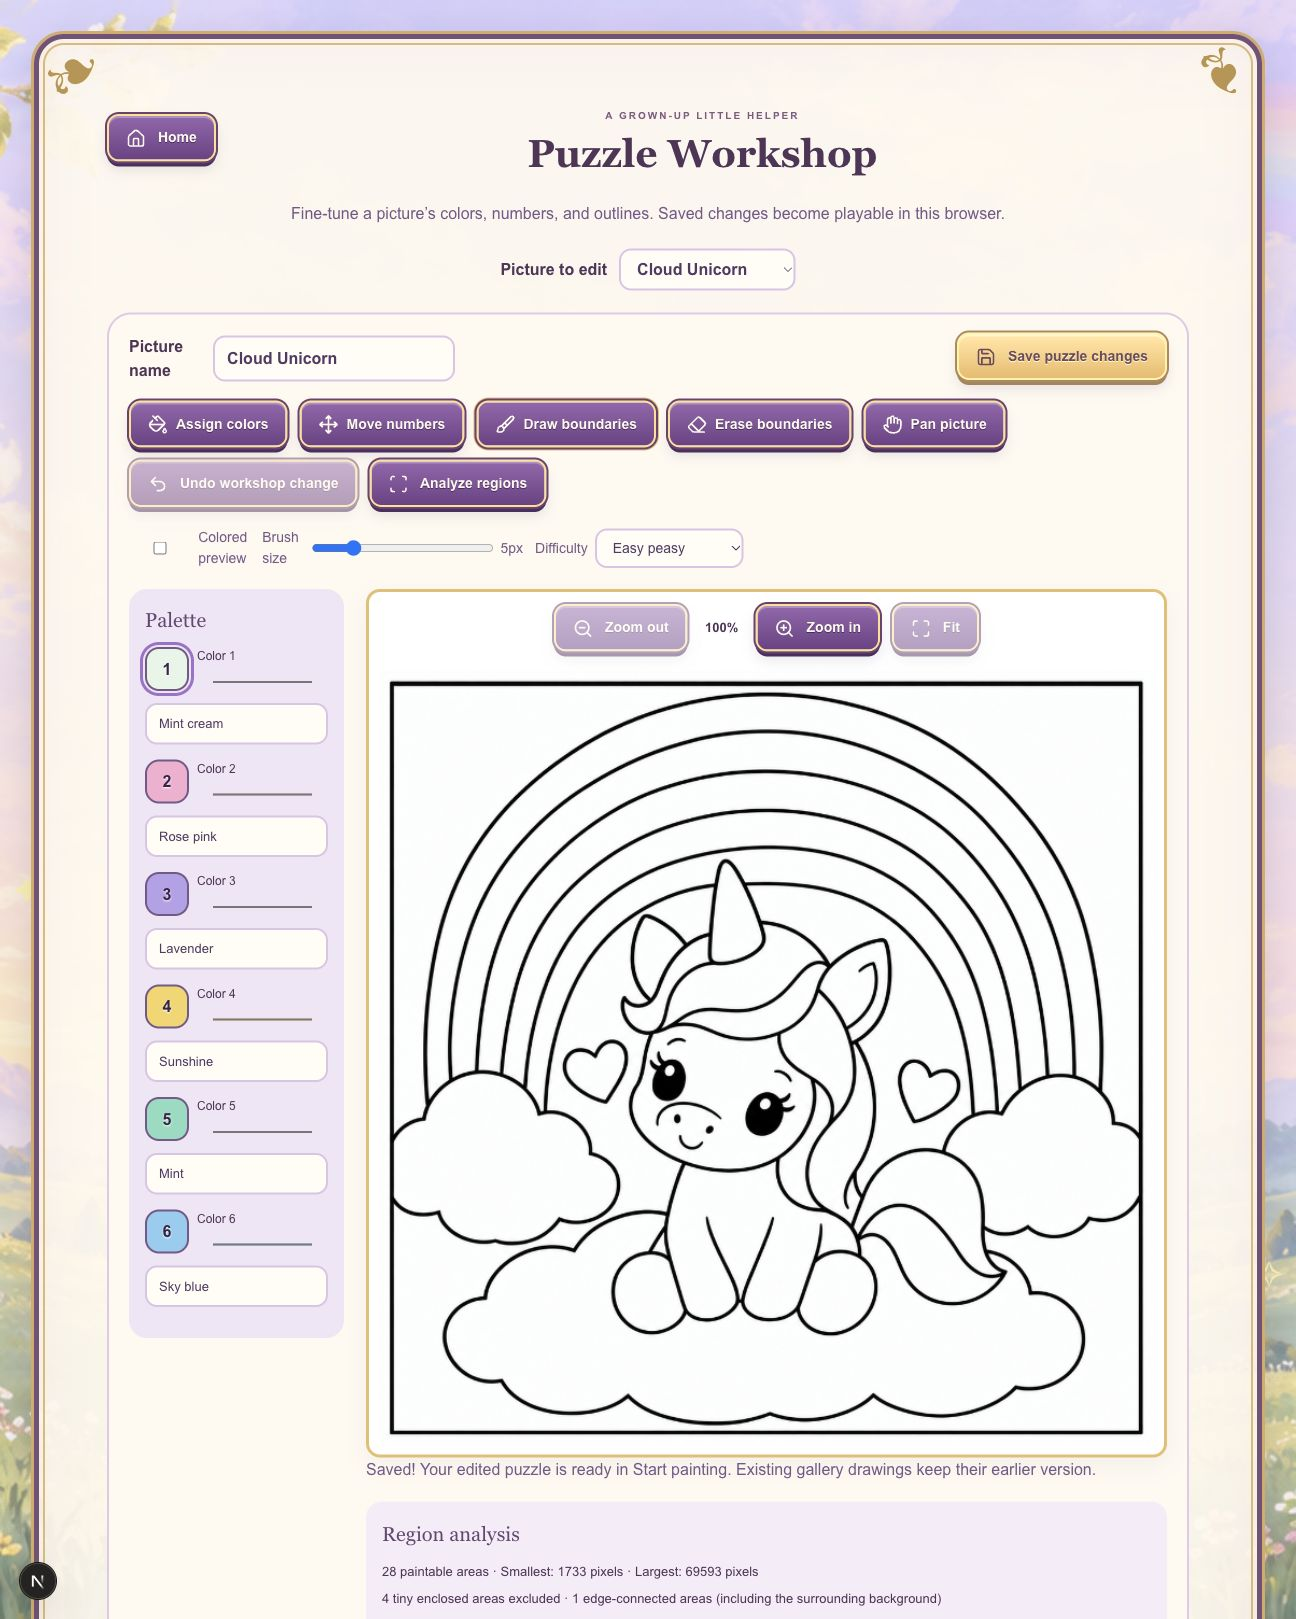
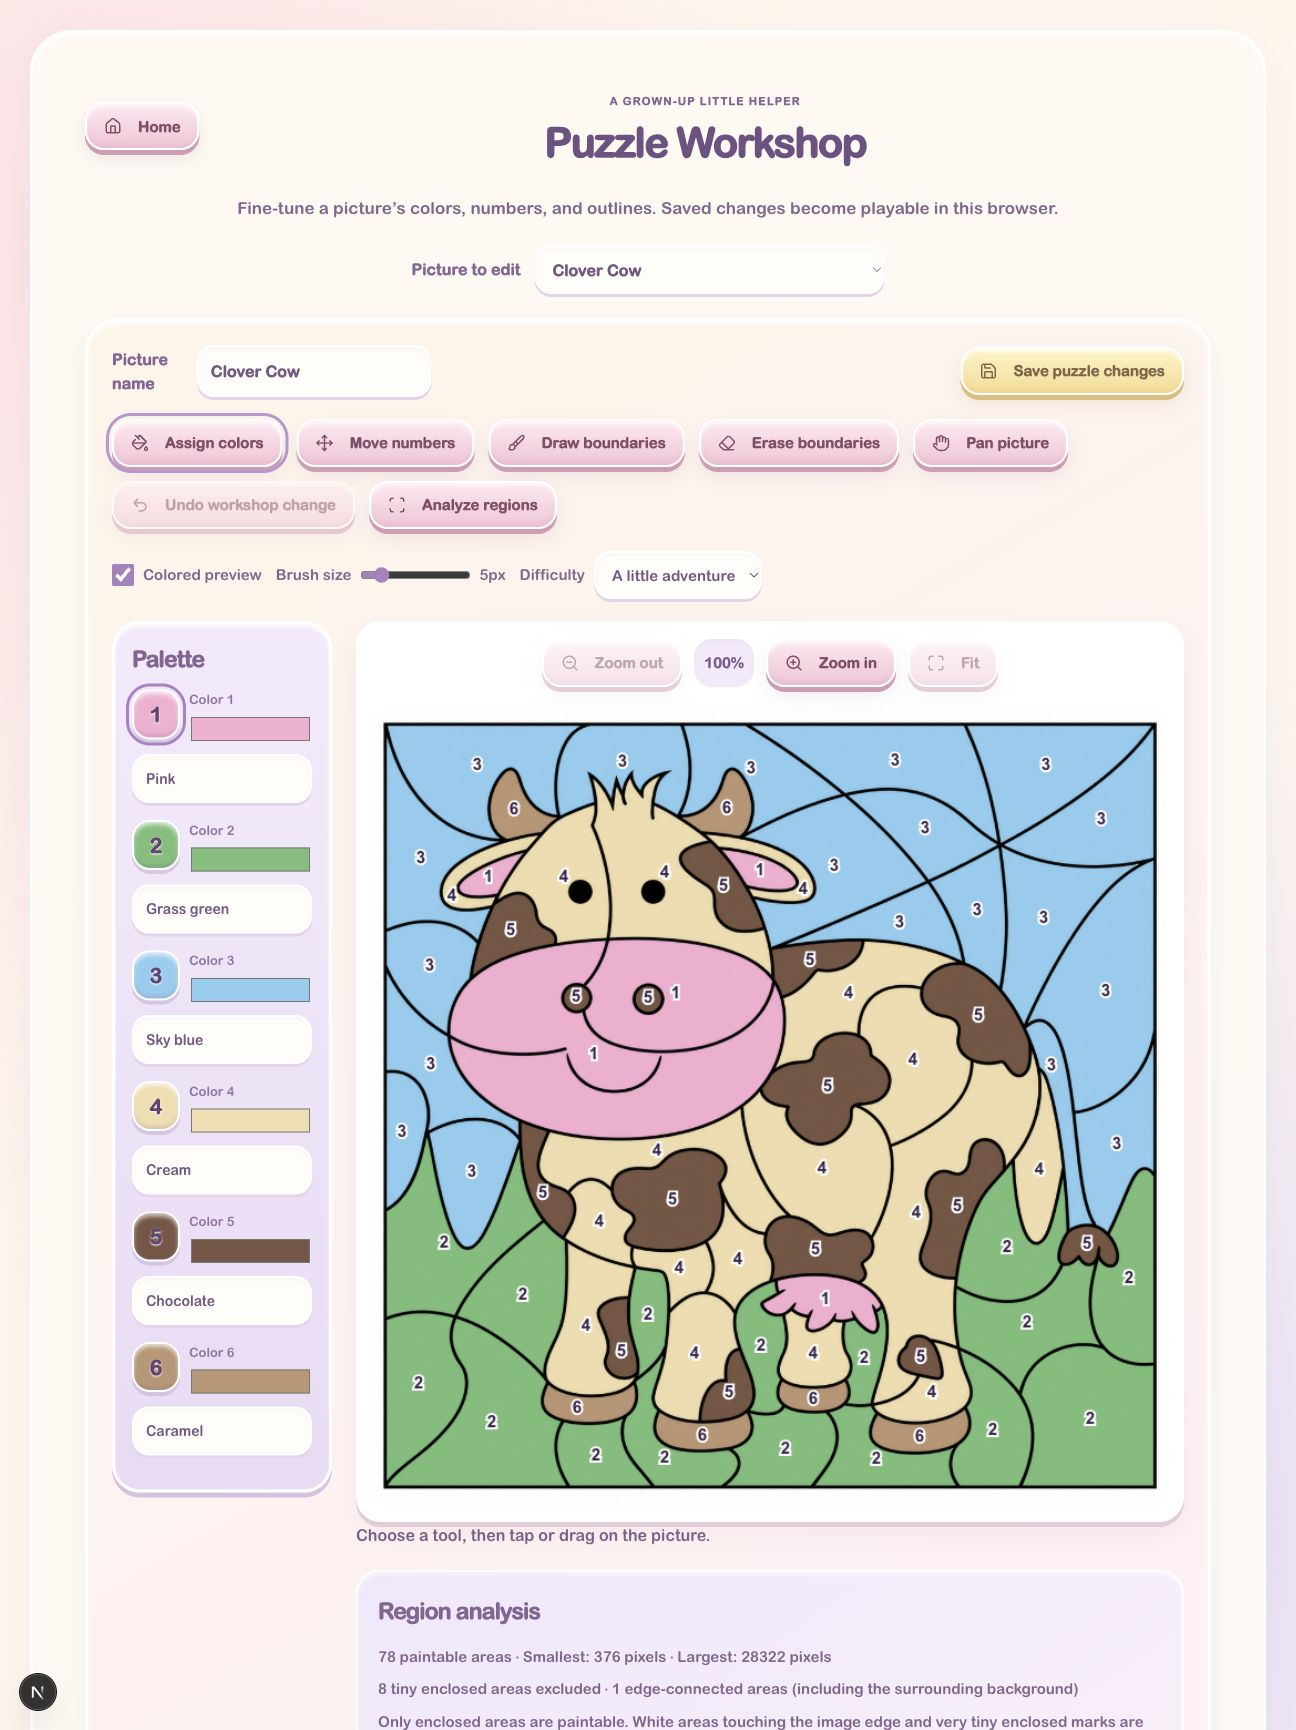
Record final Puffy game verification and screenshots

diff --git a/docs/verification/deployment.md b/docs/verification/deployment.md
@@ -55,3 +55,7 @@ Application commit `ea279e90c3886aecc311b81f052fa447c5266b78` deployed READY to 
 ## Approved Puffy theme and branding
 
 The approved Puffy Paint Club theme was published throughout the application in commit `2522975cbe052d54c8b6b2b62129c50cff573185`; its production build completed READY. Branding commit `bd8fb8d` updates the approved mascot logo, exact 1200 × 630 social card, Apple icon, normal/maskable app icons, and RGBA PNG-backed ICO favicon. Brand-generation prompts and original outputs are recorded in `docs/concepts/puffy-brand-prompts.txt` and `source-art`.
+
+## Genuine 3D paint tools release
+
+Commit `f4023b2d801deef52b6cc8961c6e3757cf2ccab4` deployed READY to https://pigment-dwrifuq66-sprioleau-projects.vercel.app after an 18-second cloud build. The custom domain is attached to this release. It includes real Three.js bucket geometry, a shared clay brush factory, direct selected-paint material updates, viewport-aligned mesh rendering, touch-safe input, and resource cleanup.

diff --git a/README.md b/README.md
@@ -15,7 +15,7 @@ An enchanted color-by-number game for little artists. Pick a picture, choose a p
 ## A paintbox full of little wonders
 
 - **Choose an adventure.** Cloud Unicorn, Flower Kitty, and Clover Cow, with difficulty filters and large picture cards.
-- **Paint with a little magic.** Touch or click the HTML canvas. A brush cursor carries your selected color, and each correct fill sends out a burst of paint.
+- **Paint with a little magic.** Touch or click the HTML canvas. Real 3D paint buckets and a clay brush carry your selected color, and each correct fill sends out a burst of paint.
 - **Get a closer look.** Zoom into small areas and pan around the artwork, then fit the picture back into view.
 - **Take your time.** Gentle wrong-color hints, undo, and a gallery that keeps unfinished pictures ready to resume.
 - **Keep your masterpiece.** Download a PNG whenever you like, with the painted artwork and no printed numbers or game controls.
